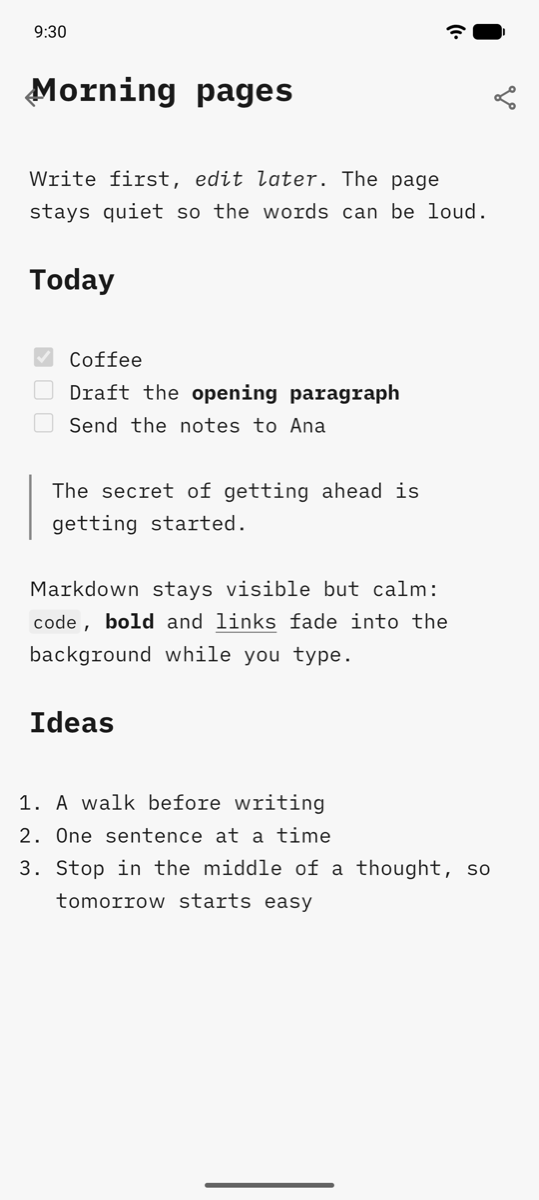
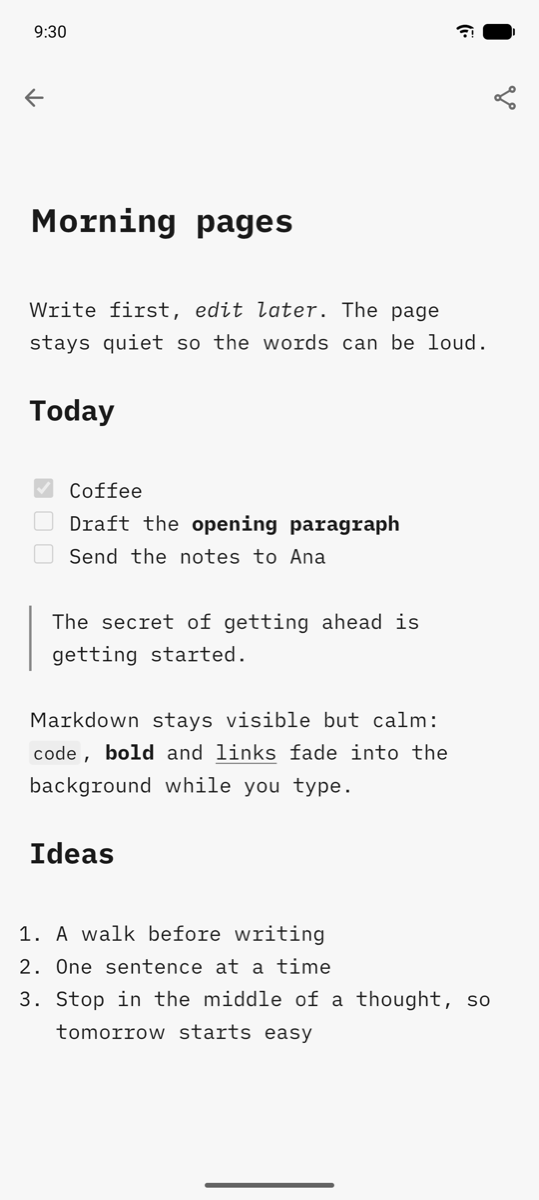
Preview: start the page below the status bar and the close/share row
The WebView draws edge to edge, but the page's top padding only covered the
editor's top room, so the note title slid under the close glyph.

diff --git a/app/src/main/kotlin/dev/mdwriter/ui/root/MdWriterRoot.kt b/app/src/main/kotlin/dev/mdwriter/ui/root/MdWriterRoot.kt
@@ -14,6 +14,7 @@ import androidx.compose.foundation.layout.ime
 import androidx.compose.foundation.layout.isImeVisible
 import androidx.compose.foundation.layout.navigationBars
 import androidx.compose.foundation.layout.padding
+import androidx.compose.foundation.layout.safeDrawing
 import androidx.compose.foundation.layout.union
 import androidx.compose.foundation.layout.width
 import androidx.compose.foundation.layout.windowInsetsPadding
@@ -45,6 +46,7 @@ import androidx.compose.ui.graphics.RectangleShape
 import androidx.compose.ui.hapticfeedback.HapticFeedbackType
 import androidx.compose.ui.platform.LocalConfiguration
 import androidx.compose.ui.platform.LocalContext
+import androidx.compose.ui.platform.LocalDensity
 import androidx.compose.ui.platform.LocalHapticFeedback
 import androidx.compose.ui.unit.dp
 import androidx.lifecycle.Lifecycle
@@ -71,6 +73,7 @@ import dev.mdwriter.ui.library.LibraryPane
 import dev.mdwriter.ui.library.LibraryUiState
 import dev.mdwriter.ui.library.LibraryViewModel
 import dev.mdwriter.ui.library.rememberExportAllNotes
+import dev.mdwriter.ui.preview.PreviewGlyphRowHeight
 import dev.mdwriter.ui.preview.PreviewOverlay
 import dev.mdwriter.ui.preview.PreviewThemes
 import dev.mdwriter.ui.preview.PreviewWebViewHolder
@@ -168,8 +171,25 @@ fun MdWriterRoot(
         // observe — 01 §8 keeps this Activity alive across that change via configChanges).
         val fontScale = LocalConfiguration.current.fontScale
         val widthClass = controller.style.widthClass
+        // The preview WebView draws edge to edge, but its close/share row sits below the status bar (56 dp tall,
+        // PreviewOverlay): the page must start below both, or the title slides under the close glyph.
+        val previewTopInsetDp =
+            with(LocalDensity.current) {
+                WindowInsets.safeDrawing
+                    .getTop(this)
+                    .toDp()
+                    .value
+            }
         val previewTheme =
-            remember(colors, settings.typeface, settings.textSizeStep, settings.lineLength, widthClass, fontScale) {
+            remember(
+                colors,
+                settings.typeface,
+                settings.textSizeStep,
+                settings.lineLength,
+                widthClass,
+                fontScale,
+                previewTopInsetDp,
+            ) {
                 val dm = context.resources.displayMetrics
                 val bodySizeSp = EditorMetrics.bodyTextSizeSp(settings.textSizeStep, widthClass)
                 val bodyCssPx =
@@ -181,7 +201,7 @@ fun MdWriterRoot(
                     bodyCssPx = bodyCssPx,
                     measureChars = if (widthClass == WidthClass.Compact) null else settings.lineLength,
                     sideDp = EditorMetrics.sideMarginMin(widthClass).value,
-                    topDp = EditorMetrics.topRoom(widthClass).value,
+                    topDp = previewTopInsetDp + PreviewGlyphRowHeight.value + EditorMetrics.topRoom(widthClass).value,
                     density = dm.density,
                 )
             }

diff --git a/app/src/main/kotlin/dev/mdwriter/ui/preview/PreviewOverlay.kt b/app/src/main/kotlin/dev/mdwriter/ui/preview/PreviewOverlay.kt
@@ -133,7 +133,7 @@ fun PreviewOverlay(
                     .fillMaxWidth()
                     .windowInsetsPadding(
                         WindowInsets.safeDrawing.only(WindowInsetsSides.Top + WindowInsetsSides.Horizontal),
-                    ).height(56.dp),
+                    ).height(PreviewGlyphRowHeight),
             ) {
                 Glyph(
                     icon = R.drawable.ic_arrow_back,
@@ -178,3 +178,6 @@ private fun Glyph(
         )
     }
 }
+
+/** Height of the close/share glyph row; the page's top padding includes it (`MdWriterRoot`'s preview theme). */
+val PreviewGlyphRowHeight = 56.dp
